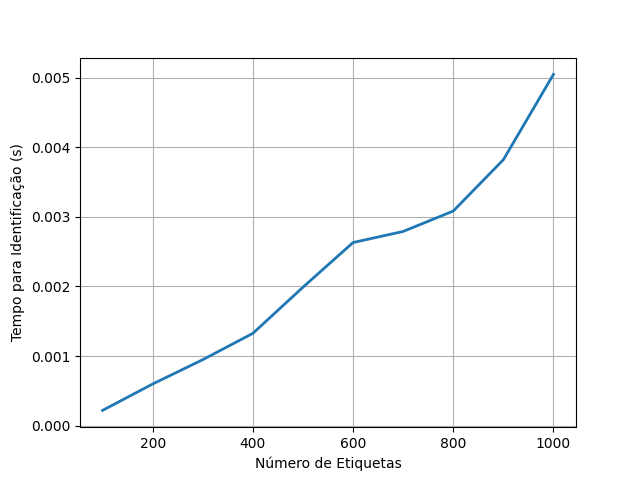
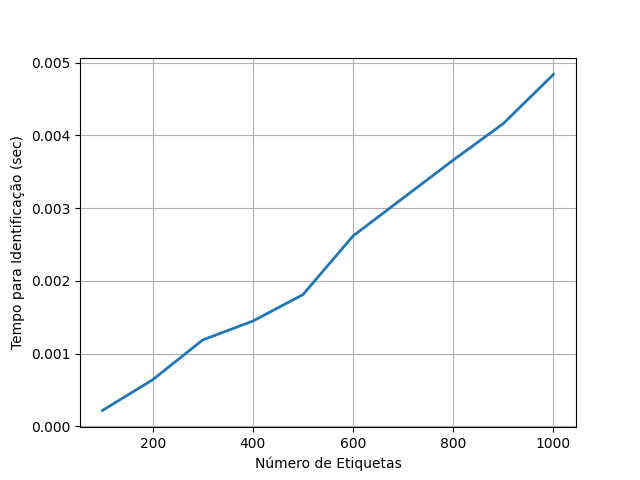
Refactor estimators code

diff --git a/core/estimators.py b/core/estimators.py
@@ -13,6 +13,56 @@ def graph_plot(x_values, y_values, x_label, y_label, file_name):
     plt.close()
 
 
+def lower_bound(collisions):
+    return collisions * 2
+
+
+def eom_lee():
+    raise NotImplementedError("Eom-Lee has not been implemented.")
+
+
+def dfsa(estimator, current_tag, current_frame):
+    total_slots = current_frame
+    total_collisions = 0
+    total_empty = 0
+
+    start_time = time.time()
+    while current_tag > 0:
+        frame = [0] * current_frame
+
+        success = 0
+        collisions = 0
+        empty = 0
+
+        for i in range(current_tag):
+            random_index = random.randrange(current_frame)
+            frame[random_index] += 1
+
+        for i in range(current_frame):
+            if frame[i] == 0:
+                empty += 1
+            elif frame[i] == 1:
+                success += 1
+            elif frame[i] >= 2:
+                collisions += 1
+
+        current_tag -= success
+        if estimator == 0:
+            current_frame = lower_bound(collisions)
+        elif estimator == 1:
+            current_frame = eom_lee()
+        else:
+            raise NotImplementedError()
+        total_collisions += collisions
+        total_slots += current_frame
+        total_empty += empty
+
+    end_time = time.time()
+    total_time = end_time - start_time
+
+    return total_collisions, total_slots, total_empty, total_time
+
+
 def simulate(
     estimator,
     initial_tag_amount,
@@ -22,143 +72,76 @@ def simulate(
     initial_frame_size,
 ):
     list_tags_interval = []
-    list_average_slots = []
-    list_average_idles = []
-    list_average_collisions = []
-    list_average_success = []
-    list_average_time = []
+    list_avg_collisions = []
+    list_avg_slots = []
+    list_avg_empty = []
+    list_avg_time = []
 
-    for index in range(1, int(max_tag_amount / initial_tag_amount) + 1):
-        tag_ammount = index * tag_increment_interval
-        list_tags_interval.append(tag_ammount)
+    for tag_index in range(1, int(max_tag_amount / initial_tag_amount) + 1):
+        tags = tag_index * tag_increment_interval
 
-        average_slots = 0
-        average_idles = 0
-        average_collisions = 0
-        average_success = 0
-        average_time = 0
+        current_tag = tags
+        current_frame = initial_frame_size
 
-        for repetition in range(max_repetition):
-            frameSize = initial_frame_size
+        avg_collisions = 0.0
+        avg_slots = 0.0
+        avg_empty = 0.0
+        avg_time = 0.0
 
-            start_time = time.time()
-            if estimator == 0:
-                (
-                    interaction_slots,
-                    interaction_idles,
-                    interaction_collisions,
-                    interaction_success,
-                ) = lower_bound(tag_ammount, frameSize)
-                average_slots += interaction_slots
-                average_idles += interaction_idles
-                average_collisions += interaction_collisions
-                average_success += interaction_success
-            if estimator == 1:
-                eom_lee()
-            end_time = time.time()
-            interaction_time = end_time - start_time
-            average_time += interaction_time
+        current_repetition = max_repetition
 
-        list_average_slots.append(average_slots / max_repetition)
-        list_average_idles.append(average_idles / max_repetition)
-        list_average_collisions.append(average_collisions / max_repetition)
-        list_average_success.append(average_success / max_repetition)
-        list_average_time.append(average_time / max_repetition)
+        for i in range(current_repetition):
+            current_tag = tags
+            current_frame = initial_frame_size
 
-        print(
-            list_tags_interval,
-            list_average_slots,
-            list_average_idles,
-            list_average_collisions,
-            list_average_success,
-            list_average_time,
-        )
+            total_collisions, total_slots, total_empty, total_time = dfsa(
+                estimator, current_tag, current_frame
+            )
 
-    list_average_efficiency = [
-        (list_average_success[i] / list_average_slots[i])
-        for i in range(len(list_tags_interval))
-    ]
+            avg_collisions += total_collisions
+            avg_slots += total_slots
+            avg_empty += total_empty
+            avg_time += total_time
+
+        avg_collisions /= current_repetition
+        avg_slots /= current_repetition
+        avg_empty /= current_repetition
+        avg_time /= current_repetition
+
+        list_avg_collisions.append(avg_collisions)
+        list_avg_slots.append(avg_slots)
+        list_avg_empty.append(avg_empty)
+        list_avg_time.append(avg_time)
+
+        list_tags_interval.append(tags)
+
+        print(list_tags_interval, list_avg_collisions, list_avg_slots, list_avg_empty)
 
     graph_plot(
         list_tags_interval,
-        list_average_slots,
-        "Número de Etiquetas",
-        "Número de Slots Vazios",
-        "lb_n_idle",
-    )
-    graph_plot(
-        list_tags_interval,
-        list_average_idles,
-        "Número de Etiquetas",
-        "Número de Slots",
-        "lb_n_slots",
-    )
-    graph_plot(
-        list_tags_interval,
-        list_average_collisions,
+        list_avg_collisions,
         "Número de Etiquetas",
         "Número de Slots em Colisão",
         "lb_n_collisions",
     )
     graph_plot(
         list_tags_interval,
-        list_average_efficiency,
+        list_avg_slots,
         "Número de Etiquetas",
-        "Eficiência (total de sucessos / total de slots)",
-        "lb_n_efficiency",
+        "Número de Slots Vazios",
+        "lb_n_idle",
     )
     graph_plot(
         list_tags_interval,
-        list_average_time,
+        list_avg_empty,
         "Número de Etiquetas",
-        "Tempo para Identificação (s)",
+        "Número de Slots",
+        "lb_n_slots",
+    )
+    graph_plot(
+        list_tags_interval,
+        list_avg_time,
+        "Número de Etiquetas",
+        "Tempo para Identificação (sec)",
         "lb_n_time",
     )
-
-    return (
-        list_average_slots,
-        list_average_idles,
-        list_average_collisions,
-        list_average_time,
-    )
-
-
-def lower_bound(
-    tag_ammount,
-    frameSize,
-):
-    total_slots = 0
-    total_idles = 0
-    total_collisions = 0
-    total_success = 0
-
-    slots = [0] * 2000
-    while tag_ammount > 0:
-        total_slots += frameSize
-
-        # Fulfill slots
-        for _ in range(tag_ammount):
-            random_slot = random.randrange(frameSize)
-            slots[random_slot] += 1
-
-        # Check for idles, sucess, and collisions
-        local_success = 0
-        local_collisions = 0
-        for f in range(frameSize):
-            if slots[f] == 0:
-                total_idles += 1
-            elif slots[f] == 1:
-                local_success += 1
-            else:
-                local_collisions += 1
-
-        tag_ammount -= local_success
-        frameSize = local_collisions * 2
-        total_collisions += local_collisions
-        total_success += local_success
-
-    return total_slots, total_idles, total_collisions, total_success
-
-
-def eom_lee():
-    raise NotImplementedError("Eom-Lee has not been implemented.")
